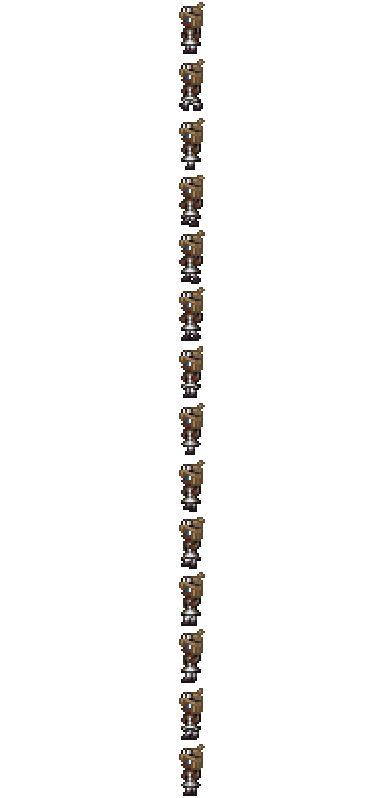
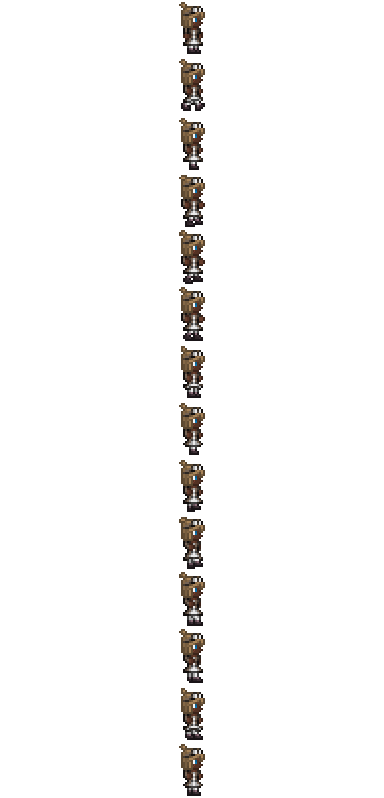
fix visuals

Changed region(s): [[0.4688, 0.0, 0.5312, 1.0]]

diff --git a/content/minion.cs b/content/minion.cs
@@ -364,20 +364,20 @@ namespace shahdee_mod.content
 
 	switch (animState) {
 		case AnimState.Idle:
-			frameStart = 8;
-			frameCount = 5;
+			frameStart = 0;
+			frameCount = 1;
 			frameSpeed = 10;
 			break;
 
 		case AnimState.Walk:
-			frameStart = 8;
-			frameCount = 5;
-			frameSpeed = 20;
+			frameStart = 2;
+			frameCount = 12;
+			frameSpeed = 4;
 			break;
 
 		case AnimState.Jump:
-			frameStart = 8;
-			frameCount = 5;
+			frameStart = 1;
+			frameCount = 1;
 			frameSpeed = 10;
 			break;        
 
